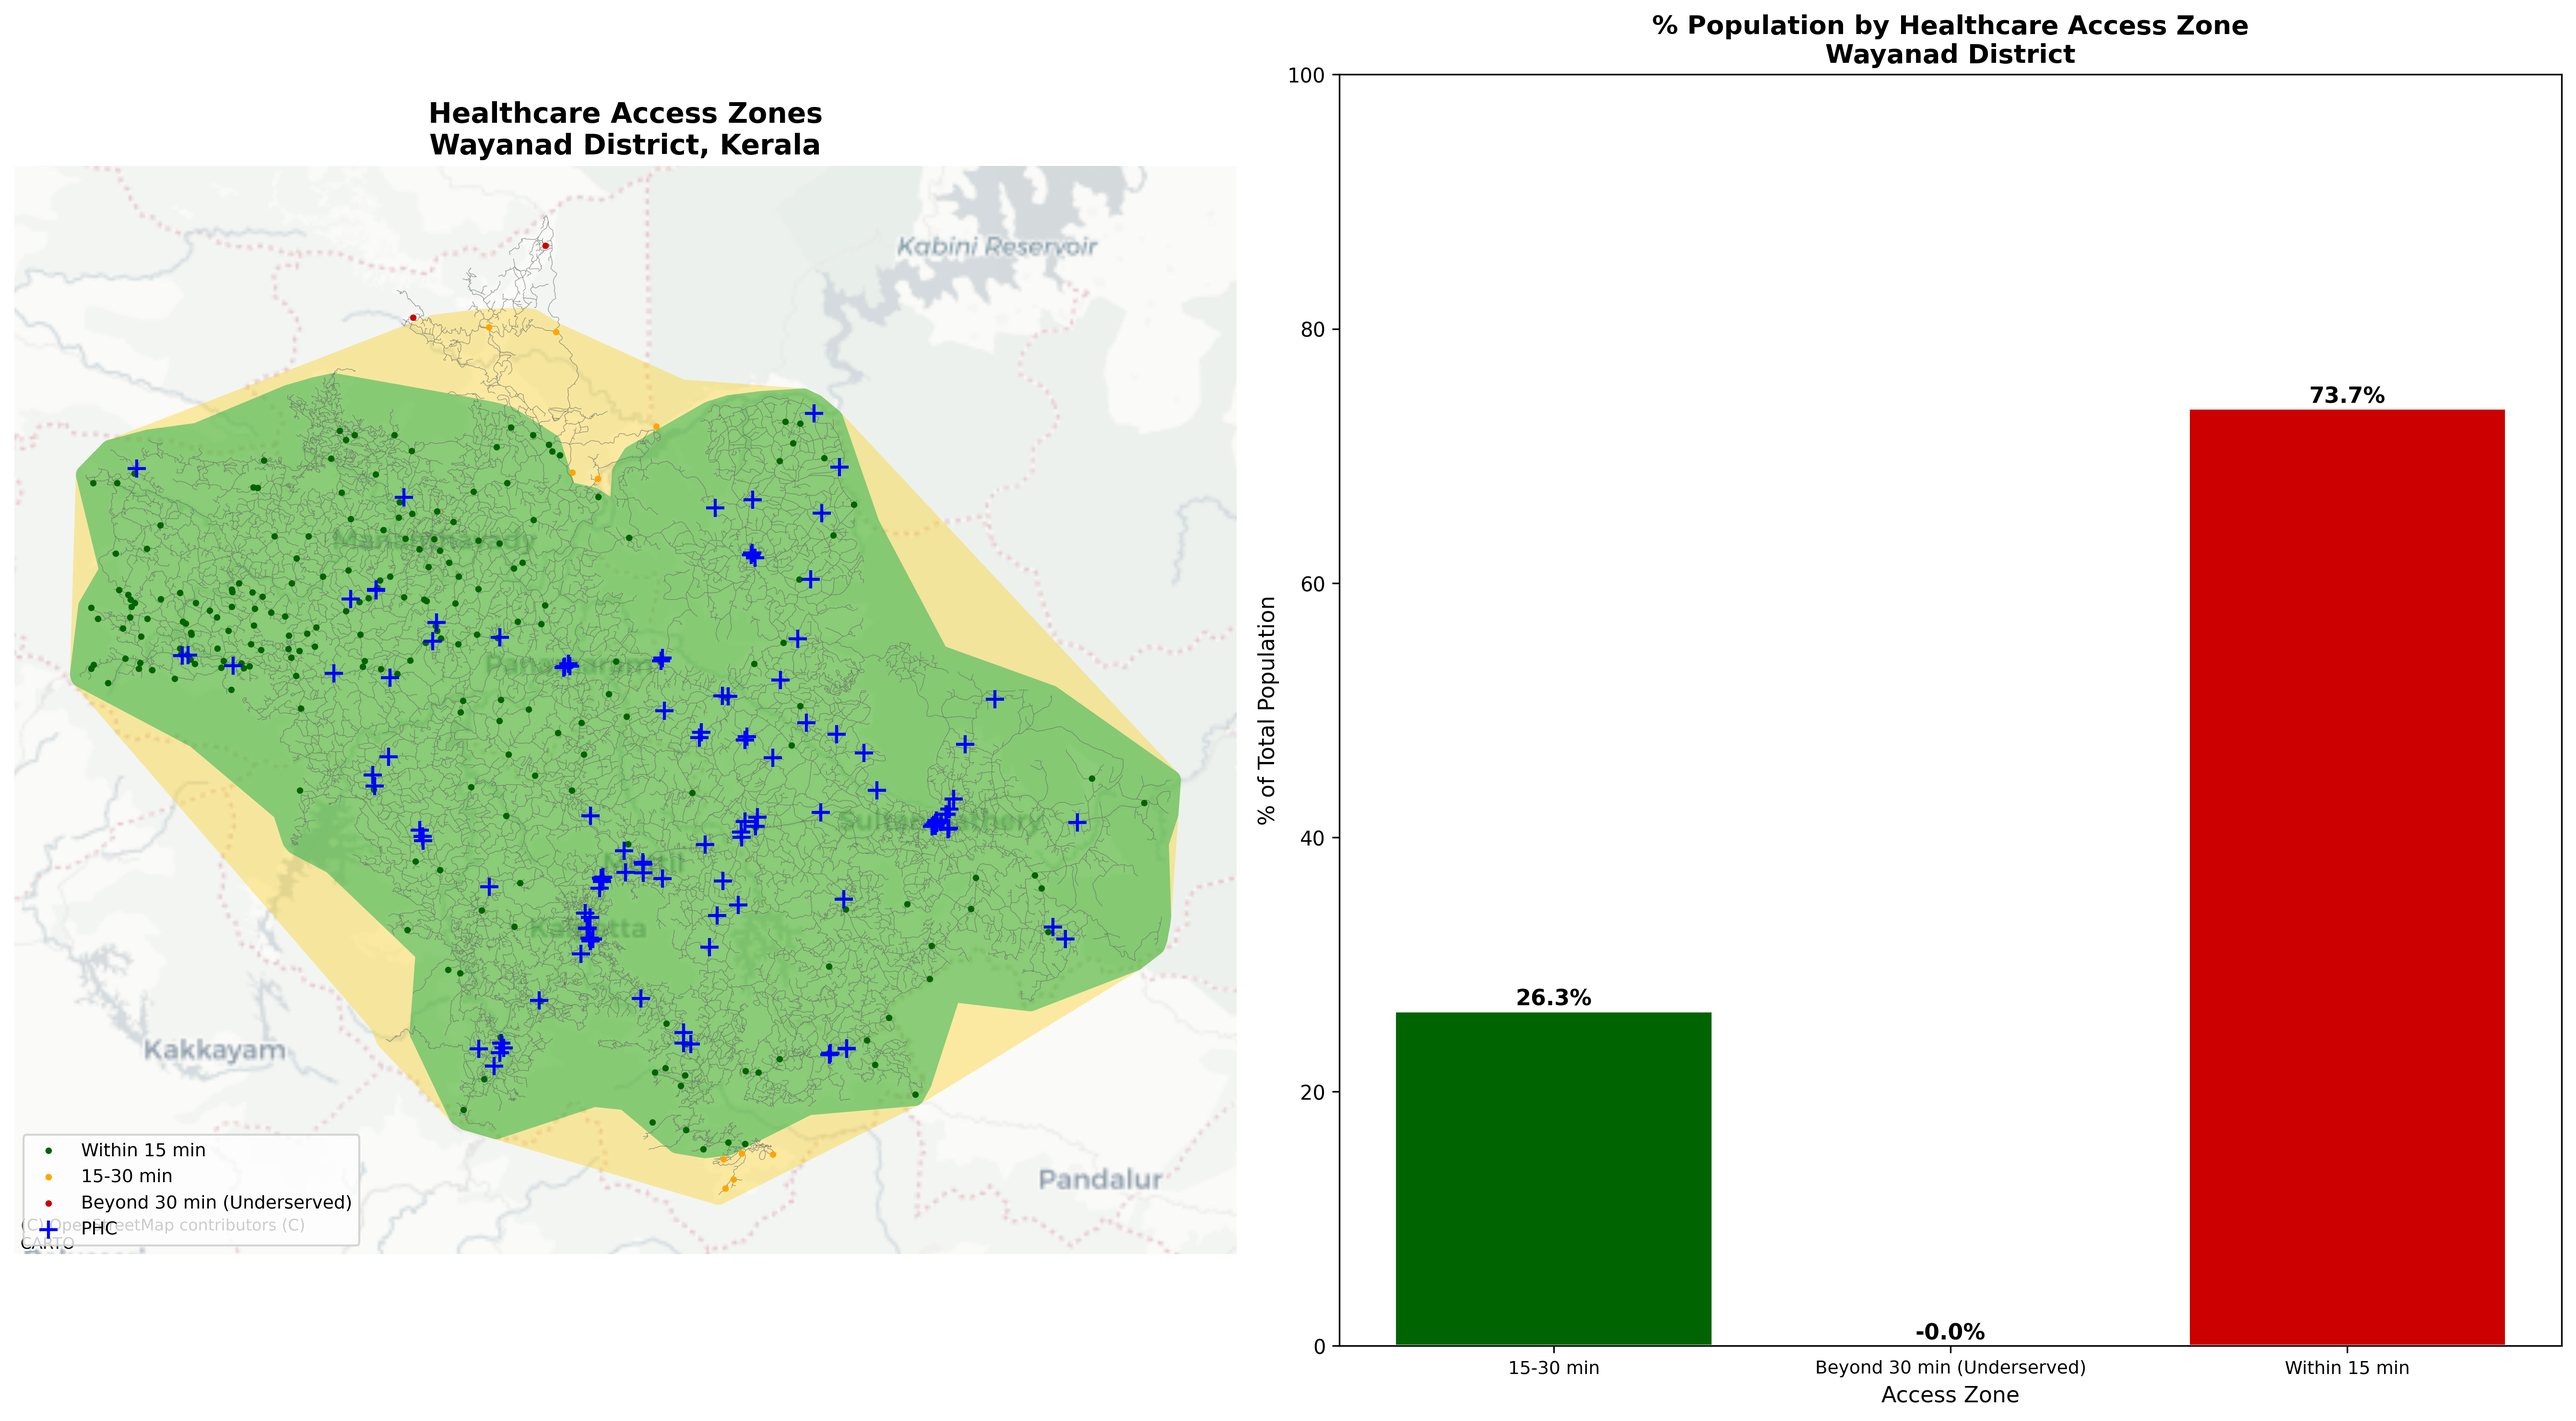
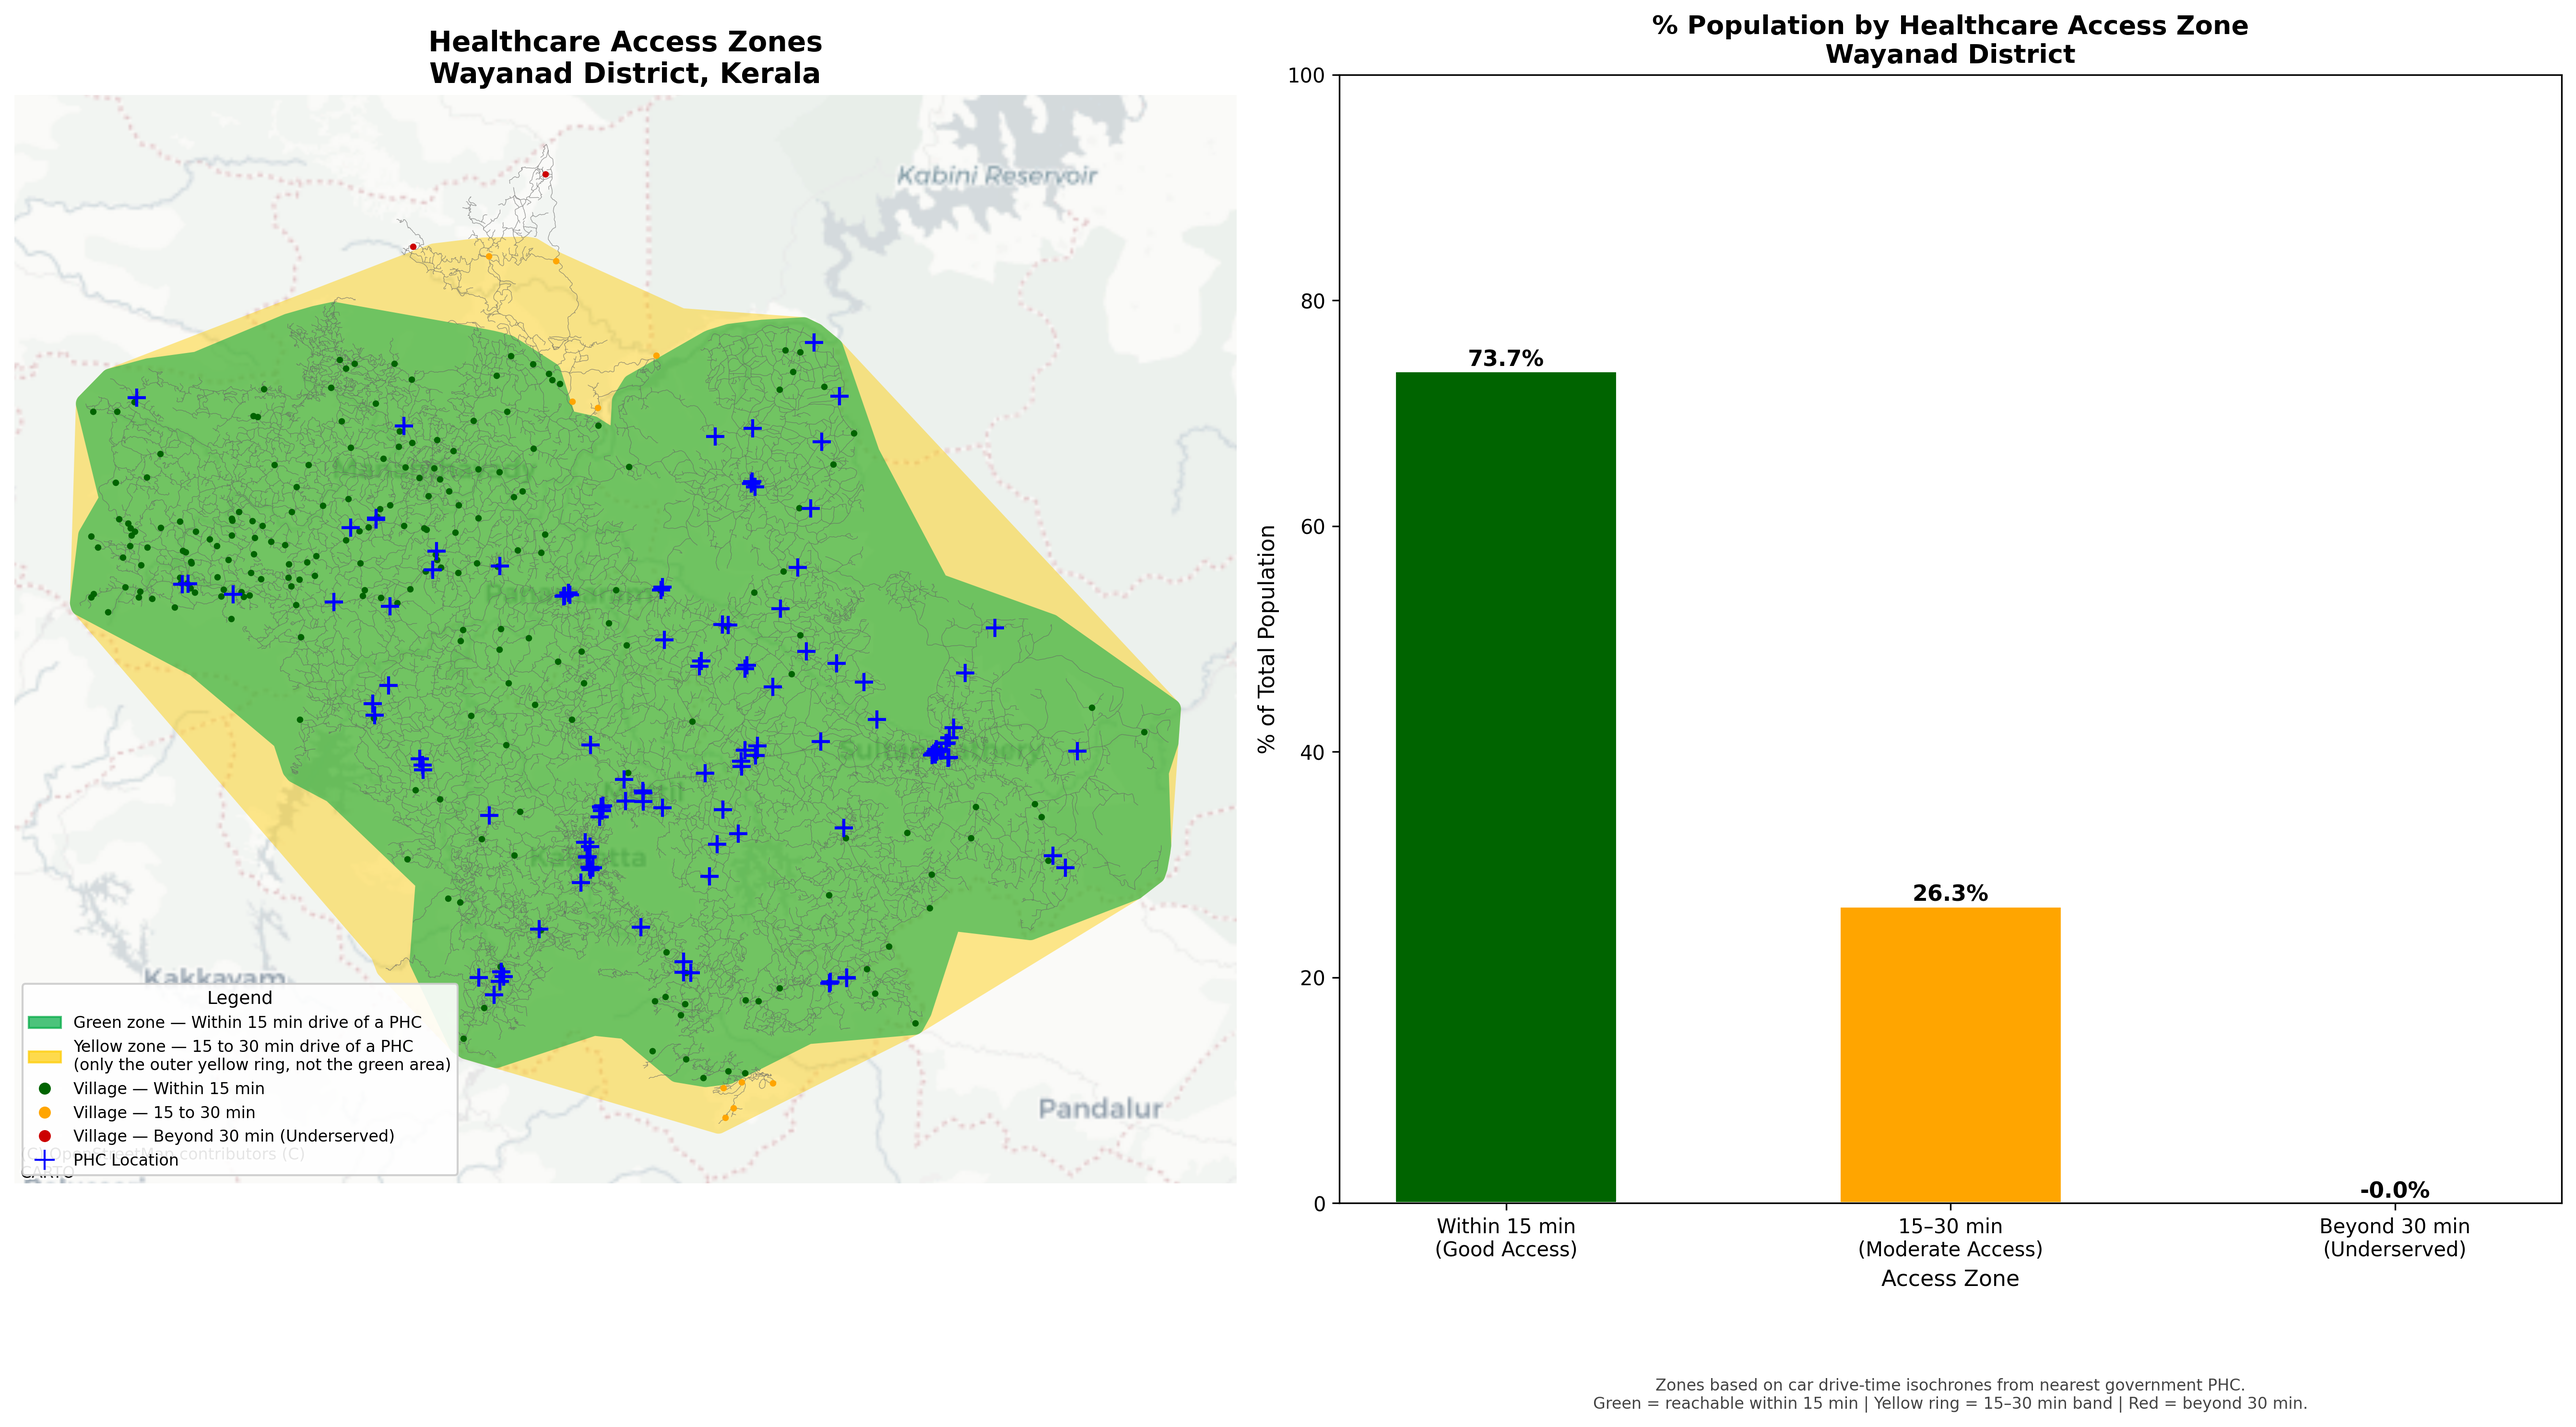
Clarity in the plotting

diff --git a/Day2_HealthCare_Wayandu/scripts/4_map.py b/Day2_HealthCare_Wayandu/scripts/4_map.py
@@ -4,14 +4,12 @@ import matplotlib.patches as mpatches
 import contextily as ctx
 import pandas as pd
 
-
 # Load layers
 villages = gpd.read_file('data/processed/villages_classified.geojson')
 roads = gpd.read_file('data/processed/wayanad_roads.geojson')
 iso_15 = gpd.read_file('data/processed/isochrone_15min.geojson')
 iso_30 = gpd.read_file('data/processed/isochrone_30min.geojson')
 phc = gpd.read_file('data/raw/wayanad_phc.geojson')
-
 
 # Reproject all to Web Mercator for contextily basemap
 crs = 'EPSG:3857'
@@ -25,15 +23,12 @@ phc = phc.to_crs(crs)
 fig, axes = plt.subplots(1, 2, figsize=(18, 10))
 ax = axes[0]
 
-
-# Draw isochrones
-iso_30.plot(ax=ax, color='#FFCC00', alpha=0.35, label='Within 30 min')
-iso_15.plot(ax=ax, color='#00AA44', alpha=0.45, label='Within 15 min')
-
+# Draw isochrones — 30 min first (bottom), then 15 min on top
+iso_30.plot(ax=ax, color='#FFCC00', alpha=0.45, label='_nolegend_')
+iso_15.plot(ax=ax, color='#00AA44', alpha=0.55, label='_nolegend_')
 
 # Draw roads
 roads.plot(ax=ax, linewidth=0.3, color='#666666', alpha=0.4)
-
 
 # Colour-coded village points
 colour_map = {
@@ -45,39 +40,69 @@ for zone, colour in colour_map.items():
     subset = villages[villages['access_zone'] == zone]
     subset.plot(ax=ax, color=colour, markersize=5, label=zone, zorder=5)
 
-
 # PHC markers
-phc.plot(ax=ax, color='blue', marker='+', markersize=80, zorder=10, label='PHC')
-
+phc.plot(ax=ax, color='blue', marker='+', markersize=80, zorder=10, label='PHC Location')
 
 # Add basemap
 ctx.add_basemap(ax, source=ctx.providers.CartoDB.Positron, zoom=10)
 
+# ── Custom legend with isochrone colour explanation ──
+legend_handles = [
+    mpatches.Patch(color='#00AA44', alpha=0.7,
+                   label='Green zone — Within 15 min drive of a PHC'),
+    mpatches.Patch(color='#FFCC00', alpha=0.7,
+                   label='Yellow zone — 15 to 30 min drive of a PHC\n(only the outer yellow ring, not the green area)'),
+    plt.Line2D([0], [0], marker='o', color='w', markerfacecolor='#006400',
+               markersize=7, label='Village — Within 15 min'),
+    plt.Line2D([0], [0], marker='o', color='w', markerfacecolor='#FFA500',
+               markersize=7, label='Village — 15 to 30 min'),
+    plt.Line2D([0], [0], marker='o', color='w', markerfacecolor='#CC0000',
+               markersize=7, label='Village — Beyond 30 min (Underserved)'),
+    plt.Line2D([0], [0], marker='+', color='blue', markersize=10,
+               linewidth=0, label='PHC Location'),
+]
+ax.legend(handles=legend_handles, loc='lower left', fontsize=8,
+          framealpha=0.9, title='Legend', title_fontsize=9)
 
-# Legend and labels
 ax.set_title('Healthcare Access Zones\nWayanad District, Kerala', fontsize=14, fontweight='bold')
-ax.legend(loc='lower left', fontsize=9)
 ax.set_axis_off()
-
 
 # ─── BAR CHART ───────────────────────────────────────
 ax2 = axes[1]
 summary = pd.read_csv('outputs/access_zone_summary.csv')
-colours = ['#006400', '#FFA500', '#CC0000']
-bars = ax2.bar(summary['access_zone'], summary['pct'], color=colours, edgecolor='white')
 
+# Force correct order: Within 15 min → 15-30 min → Beyond 30 min
+order = ['Within 15 min', '15-30 min', 'Beyond 30 min (Underserved)']
+summary['access_zone'] = pd.Categorical(summary['access_zone'], categories=order, ordered=True)
+summary = summary.sort_values('access_zone')
+
+# Match bar colours to map colours
+bar_colours = ['#006400', '#FFA500', '#CC0000']
+bars = ax2.bar(summary['access_zone'], summary['pct'], color=bar_colours, edgecolor='white', width=0.5)
 
 for bar, val in zip(bars, summary['pct']):
-    ax2.text(bar.get_x() + bar.get_width()/2, bar.get_height() + 0.5,
+    ax2.text(bar.get_x() + bar.get_width() / 2, bar.get_height() + 0.5,
              f'{val:.1f}%', ha='center', fontsize=11, fontweight='bold')
 
+# X-axis labels — cleaner readable names
+ax2.set_xticks(range(len(order)))
+ax2.set_xticklabels([
+    'Within 15 min\n(Good Access)',
+    '15–30 min\n(Moderate Access)',
+    'Beyond 30 min\n(Underserved)'
+], fontsize=10)
 
 ax2.set_title('% Population by Healthcare Access Zone\nWayanad District', fontsize=13, fontweight='bold')
 ax2.set_ylabel('% of Total Population', fontsize=11)
 ax2.set_xlabel('Access Zone', fontsize=11)
 ax2.set_ylim(0, 100)
-ax2.tick_params(axis='x', labelsize=9)
 
+# Add a note explaining the zones
+ax2.text(0.5, -0.18,
+         'Zones based on car drive-time isochrones from nearest government PHC.\n'
+         'Green = reachable within 15 min | Yellow ring = 15–30 min band | Red = beyond 30 min.',
+         transform=ax2.transAxes, ha='center', fontsize=8, color='#444444',
+         wrap=True)
 
 plt.tight_layout()
 plt.savefig('outputs/access_map.png', dpi=300, bbox_inches='tight')
